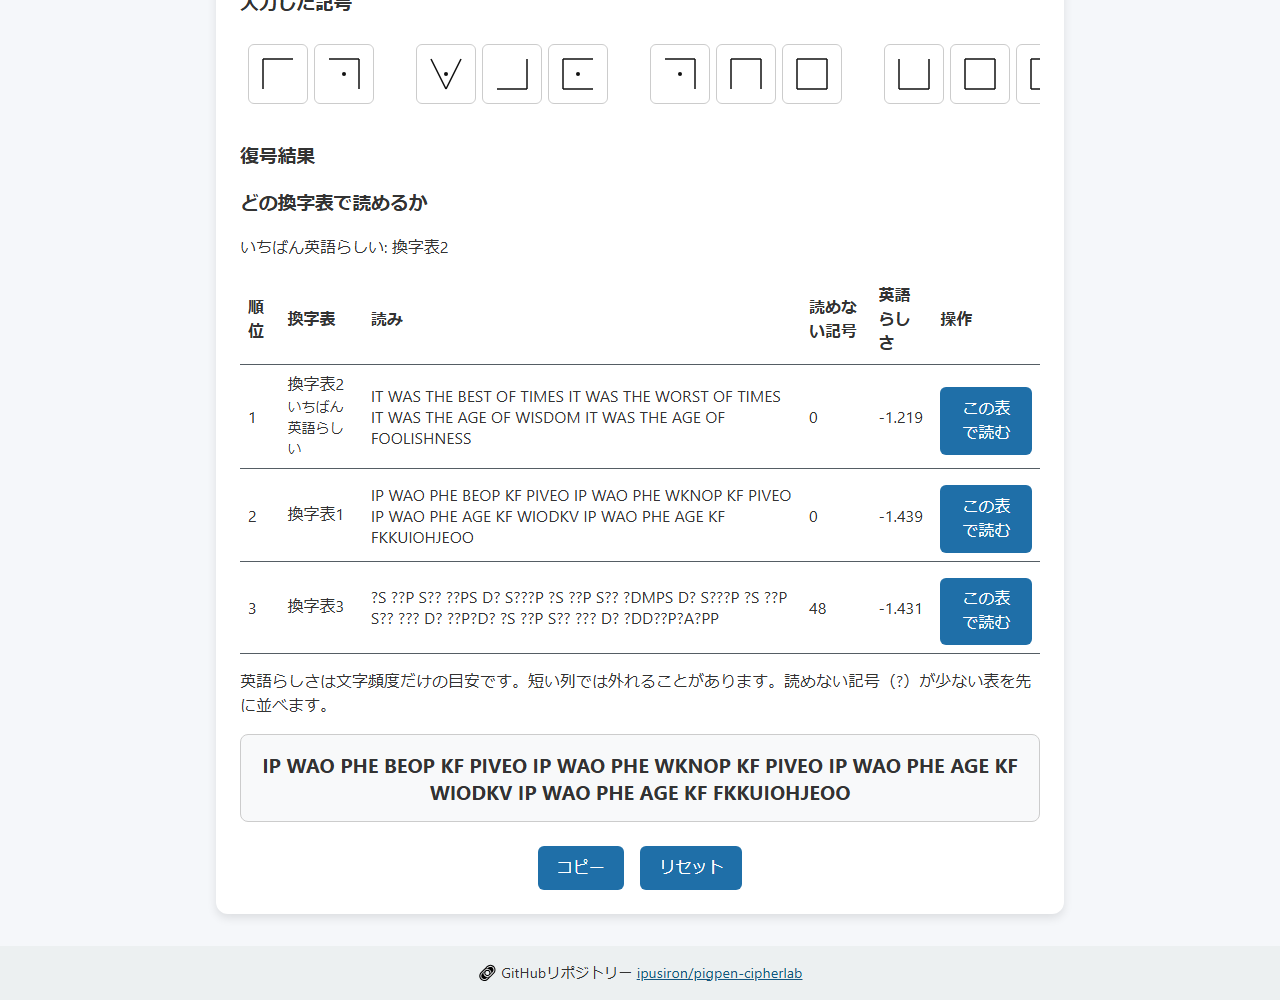
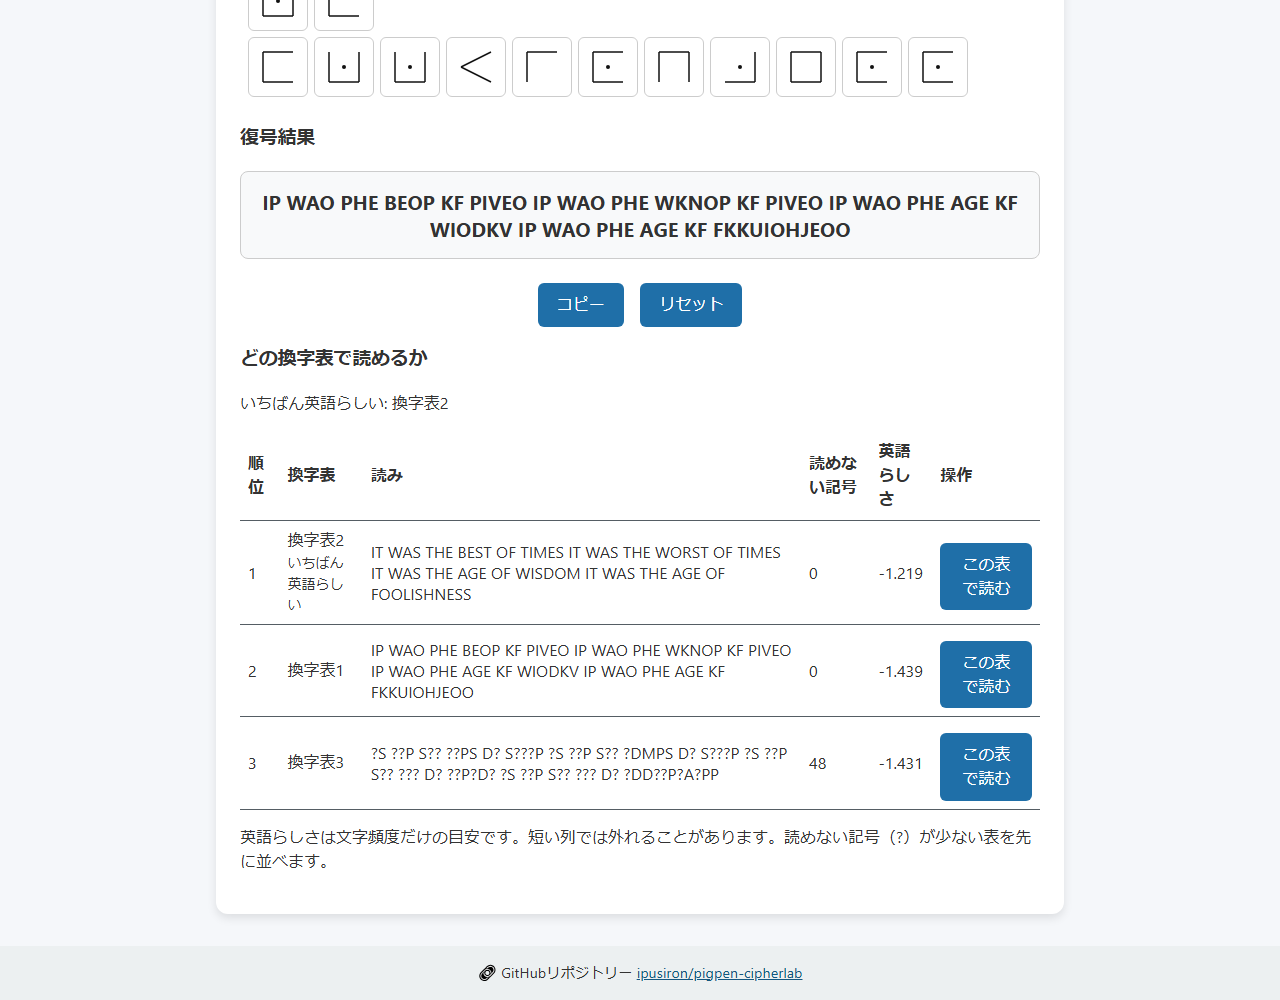
復号タブの記号列を折り返し、結果と推定の並びを整理
- 入力した記号を単語ごとにまとめ、枠の幅で折り返す（横スクロールをやめる）
- 見出し「復号結果」の直後に読みを置き、推定の一覧をその下へ移す
- 復号タブの画像2枚を撮り直す

diff --git a/index.html b/index.html
@@ -129,10 +129,6 @@
       <h3 data-i18n="ui.15">入力した記号</h3>
       <div id="decodeSequence" class="decode-sequence" role="img"></div>
       <h3 data-i18n="ui.16">復号結果</h3>
-      <h3 data-i18n="rank.heading">どの換字表で読めるか</h3>
-      <p id="rankStatus" aria-live="polite"></p>
-      <div class="table-scroll"><table id="variantRanking"></table></div>
-      <p data-i18n="rank.note">英語らしさは文字頻度だけの目安です。短い列では外れることがあります。読めない記号（?）が少ない表を先に並べます。</p>
       <div class="result-container">
         <div id="decryptedText" aria-live="polite" class="output-text"></div>
         <p id="decodeUnknown" hidden></p>
@@ -142,6 +138,10 @@
           <div id="copyToast" aria-live="polite" class="copy-toast" data-i18n="copy.success">コピーしました</div>
         </div>
       </div>
+      <h3 data-i18n="rank.heading">どの換字表で読めるか</h3>
+      <p id="rankStatus" aria-live="polite"></p>
+      <div class="table-scroll"><table id="variantRanking"></table></div>
+      <p data-i18n="rank.note">英語らしさは文字頻度だけの目安です。短い列では外れることがあります。読めない記号（?）が少ない表を先に並べます。</p>
     </section>
 
     <!-- 座学タブ -->

diff --git a/script.js b/script.js
@@ -273,16 +273,27 @@ function renderReading() {
   const sequence = document.getElementById('decodeSequence');
   sequence.replaceChildren();
   sequence.setAttribute('aria-label', i18n.t('decode.sequence'));
+  // Group symbols by word so that the sequence wraps between words, not inside them.
+  let word = null;
+  const flushWord = () => {
+    if (word) sequence.appendChild(word);
+    word = null;
+  };
   for (const shape of state.decodeItems) {
     if (shape === ' ' || shape === '\n') {
+      flushWord();
       const spacer = document.createElement('span');
       spacer.className = shape === '\n' ? 'cipher-newline' : 'cipher-space';
       sequence.appendChild(spacer);
     } else {
-      const img = createGlyph(shape, { className: 'cipher-glyph' });
-      sequence.appendChild(img);
+      if (!word) {
+        word = document.createElement('span');
+        word.className = 'decode-word';
+      }
+      word.appendChild(createGlyph(shape, { className: 'cipher-glyph' }));
     }
   }
+  flushWord();
   const unknown = document.getElementById('decodeUnknown');
   unknown.textContent = i18n.t('decode.unknown');
   unknown.hidden = !decryptedText.textContent.includes('?');

diff --git a/style.css b/style.css
@@ -765,10 +765,18 @@ header button:focus-visible,
 
 .decode-sequence {
   display: flex;
+  flex-wrap: wrap;
+  align-items: flex-start;
   gap: 6px;
-  overflow-x: auto;
   min-height: 72px;
   padding: 0.5rem;
+}
+
+.decode-word {
+  display: flex;
+  flex-wrap: wrap;
+  gap: 6px;
+  max-width: 100%;
 }
 
 .decode-sequence .model-glyph {
